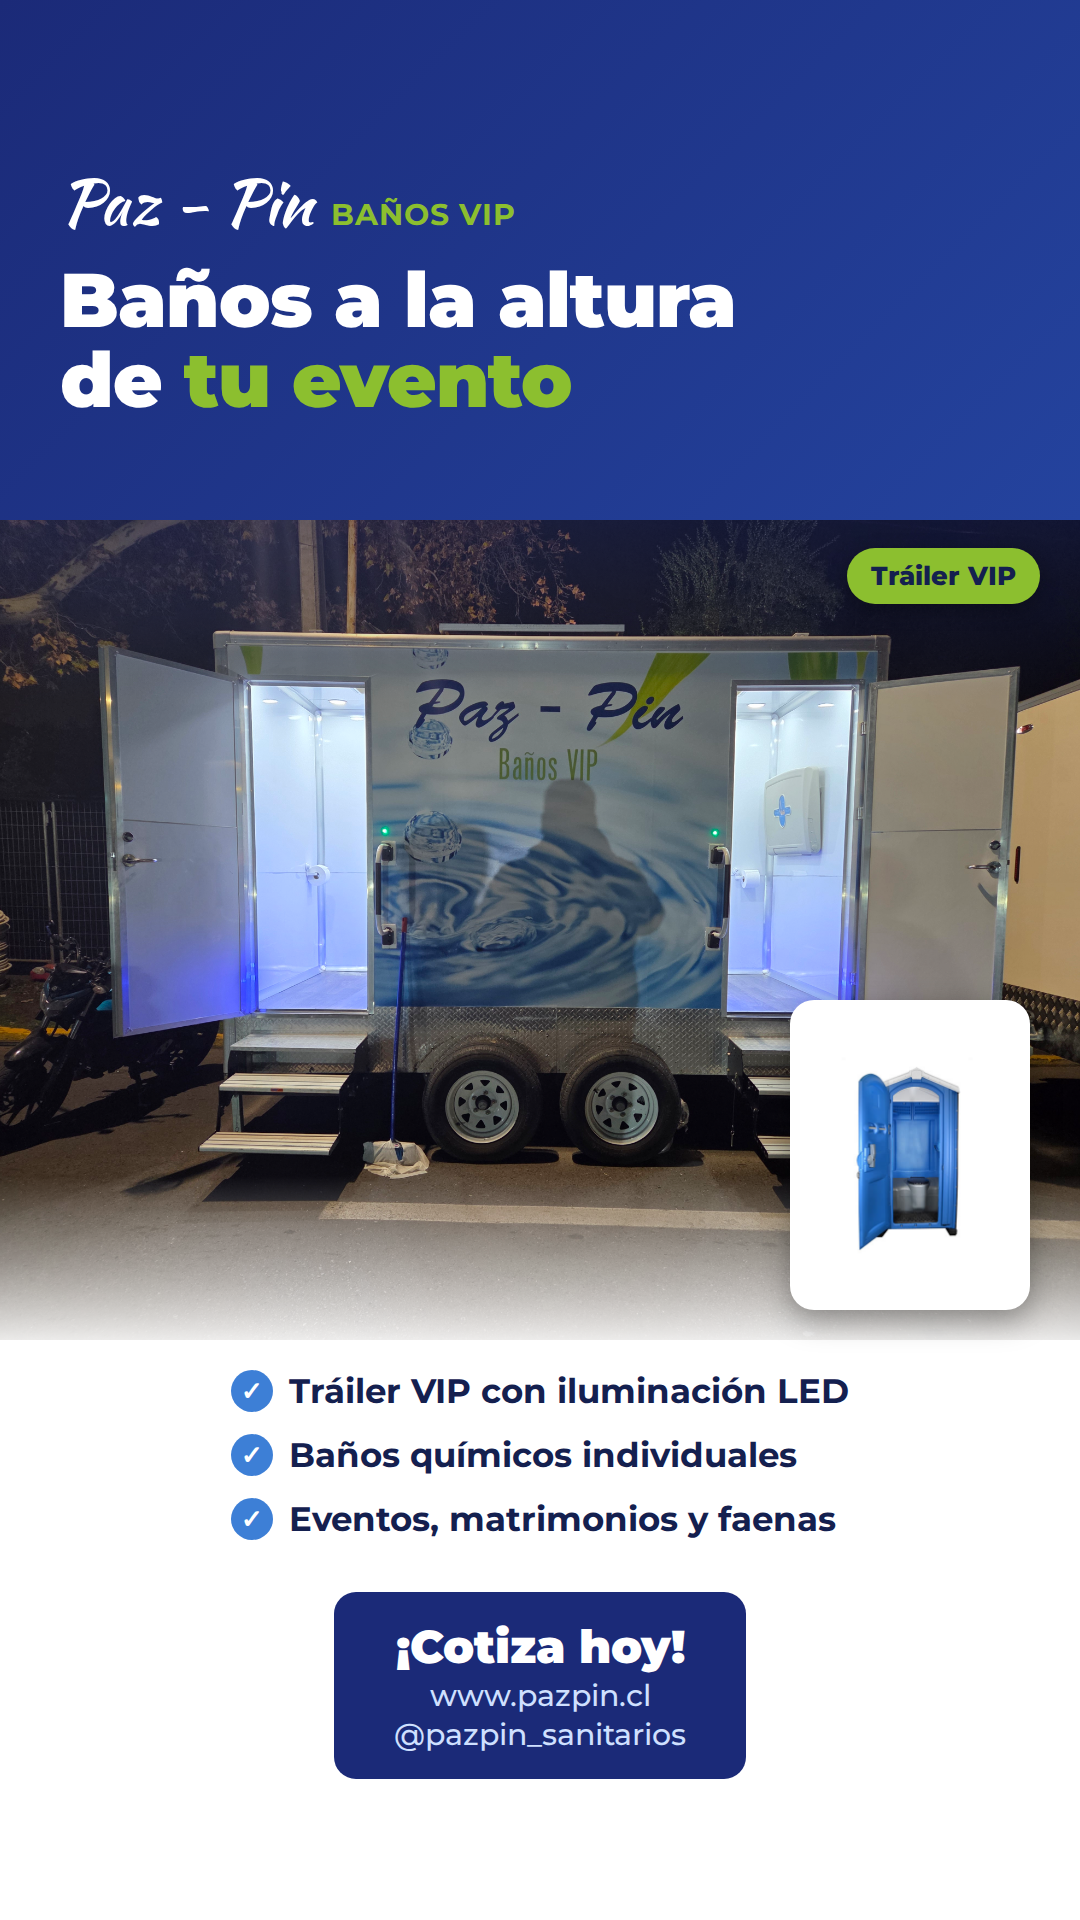
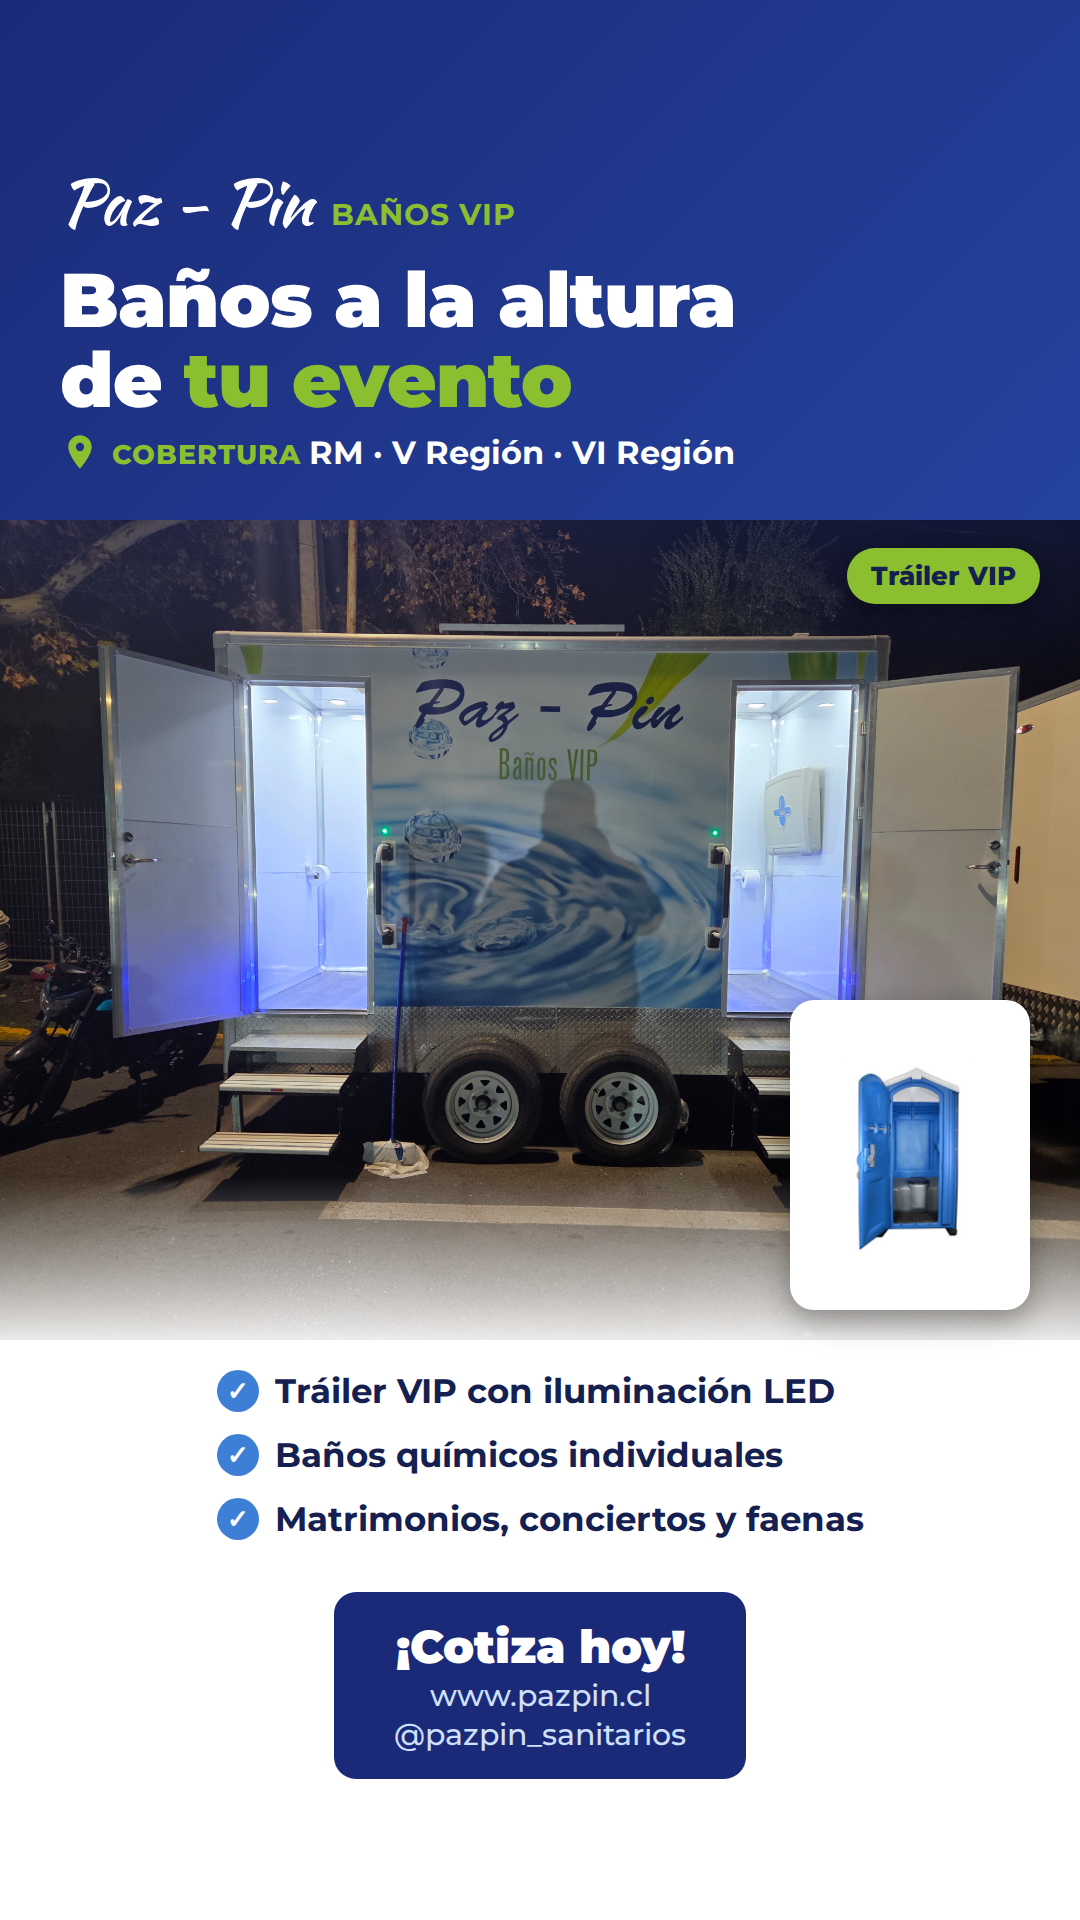
Agregar conciertos y cobertura regional a la publicidad
Incluye conciertos entre los tipos de evento y un distintivo de
cobertura (Región Metropolitana, V y VI Región) en el post, la
historia y el texto sugerido.

Claude-Session: https://claude.ai/code/session_01SeHKDtyF9RTatuRqh77ur9

Changed region(s): [[0.1833, 0.6875, 0.7944, 0.8125], [0.3667, 0.2188, 0.6722, 0.25], [0.0611, 0.2188, 0.3361, 0.25]]

diff --git a/instagram/historia-9x16.html b/instagram/historia-9x16.html
@@ -58,6 +58,9 @@
   .cta b { font-size: 46px; font-weight: 900; }
   .cta small { font-size: 30px; font-weight: 500; color: #cfe0ff; margin-top: 2px; }
   .cabin { position: absolute; right: 50px; top: -340px; width: 240px; height: 310px; border-radius: 24px; box-shadow: 0 10px 30px rgba(0,0,0,.35); padding: 16px; background: url('assets/bano-quimico.jpg') center / contain no-repeat; background-color: #fff; background-origin: content-box; z-index: 5; }
+  .zona { position: absolute; left: 60px; top: 432px; display: flex; align-items: center; gap: 12px; }
+  .zona div { font-weight: 700; font-size: 32px; }
+  .zona small { font-weight: 800; color: var(--lime); letter-spacing: 1px; margin-right: 8px; }
 </style>
 </head>
 <body>
@@ -65,6 +68,7 @@
   <div class="top">
     <div class="brand"><span class="name">Paz - Pin</span><span class="vip">BAÑOS VIP</span></div>
     <h1>Baños a la altura<br>de <span>tu evento</span></h1>
+    <div class="zona"><svg viewBox="0 0 24 24" width="40" height="40"><path fill="#8cbf2f" d="M12 2C8.1 2 5 5.1 5 9c0 5.2 7 13 7 13s7-7.8 7-13c0-3.9-3.1-7-7-7zm0 9.5A2.5 2.5 0 1 1 12 6.5a2.5 2.5 0 0 1 0 5z"/></svg><div><small>COBERTURA</small>RM · V Región · VI Región</div></div>
   </div>
 
   <div class="photo"><div class="tag">Tráiler VIP</div></div>
@@ -74,7 +78,7 @@
       <ul class="list">
         <li>Tráiler VIP con iluminación LED</li>
         <li>Baños químicos individuales</li>
-        <li>Eventos, matrimonios y faenas</li>
+        <li>Matrimonios, conciertos y faenas</li>
       </ul>
       <div class="cta">
         <b>¡Cotiza hoy!</b>

diff --git a/instagram/post-4x5.html b/instagram/post-4x5.html
@@ -57,6 +57,10 @@
   .cta b { font-size: 34px; font-weight: 900; }
   .cta small { font-size: 24px; font-weight: 500; color: #cfe0ff; margin-top: 2px; }
   .cabin { width: 280px; height: 360px; margin-top: -70px; background: url('assets/bano-quimico.jpg') center / contain no-repeat; mix-blend-mode: multiply; }
+  .zona { position: absolute; right: 60px; top: 150px; display: flex; align-items: center; gap: 12px;
+    border: 3px solid var(--lime); border-radius: 18px; padding: 12px 20px; }
+  .zona div { font-weight: 800; font-size: 24px; line-height: 1.25; }
+  .zona small { display: block; font-weight: 600; font-size: 18px; color: var(--lime); letter-spacing: 2px; }
 </style>
 </head>
 <body>
@@ -64,6 +68,7 @@
   <div class="top">
     <div class="brand"><span class="name">Paz - Pin</span><span class="vip">BAÑOS VIP</span></div>
     <h1>Baños a la altura<br>de <span>tu evento</span></h1>
+    <div class="zona"><svg viewBox="0 0 24 24" width="30" height="30"><path fill="#8cbf2f" d="M12 2C8.1 2 5 5.1 5 9c0 5.2 7 13 7 13s7-7.8 7-13c0-3.9-3.1-7-7-7zm0 9.5A2.5 2.5 0 1 1 12 6.5a2.5 2.5 0 0 1 0 5z"/></svg><div><small>COBERTURA</small>Región Metropolitana<br>V y VI Región</div></div>
   </div>
 
   <div class="photo"><div class="tag">Tráiler VIP</div></div>
@@ -73,7 +78,7 @@
       <ul class="list">
         <li>Tráiler VIP con iluminación LED</li>
         <li>Baños químicos individuales</li>
-        <li>Eventos, matrimonios y faenas</li>
+        <li>Matrimonios, conciertos y faenas</li>
       </ul>
       <div class="cta">
         <b>¡Cotiza hoy!</b>

diff --git a/instagram/README.md b/instagram/README.md
@@ -10,6 +10,7 @@ fuentes en `assets/`. Para cambiar un texto (por ejemplo los datos de contacto),
 HTML y vuelve a generar el PNG con una captura de Chromium/Playwright a ese tamaño.
 
 Contacto: www.pazpin.cl · Instagram @pazpin_sanitarios
+Cobertura: Región Metropolitana, V Región y VI Región
 
 ## Texto de la publicación (caption)
 
@@ -18,10 +19,12 @@ En **Paz-Pin Baños VIP** te arrendamos baños a la altura de tu celebración:
 
 ✅ Tráiler VIP con iluminación LED, cómodo y elegante
 ✅ Baños químicos individuales para cualquier tipo de evento
-✅ Ideal para matrimonios, fiestas, eventos corporativos y faenas
+✅ Ideal para matrimonios, conciertos, fiestas, eventos corporativos y faenas
+📍 Cobertura en la Región Metropolitana, V Región y VI Región
 
 🌐 Cotiza hoy en www.pazpin.cl
 📩 O escríbenos por mensaje directo a @pazpin_sanitarios
 
 #BañosVIP #ArriendoDeBaños #BañosQuímicos #BañosParaEventos #Matrimonios
-#EventosChile #Matrimonio #Faenas #ProducciónDeEventos #PazPin
+#EventosChile #Matrimonio #Faenas #Conciertos #ProducciónDeEventos #RegiónMetropolitana
+#Valparaíso #Rancagua #PazPin
